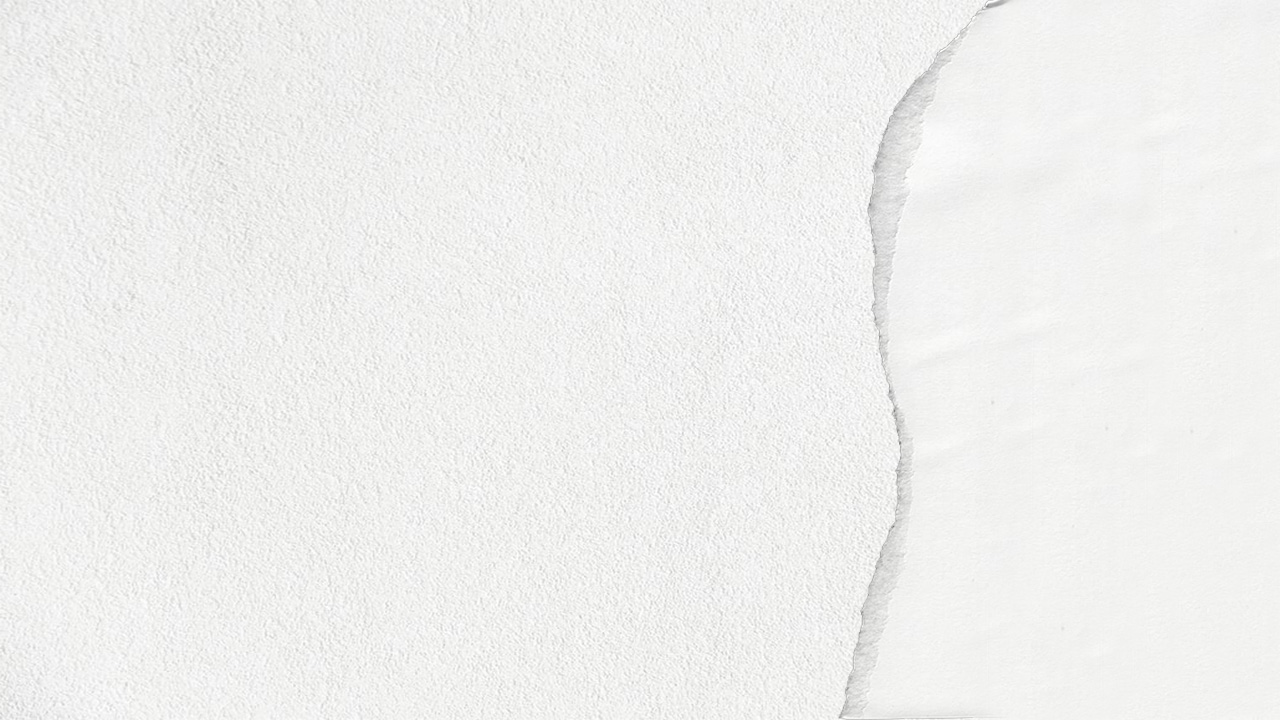
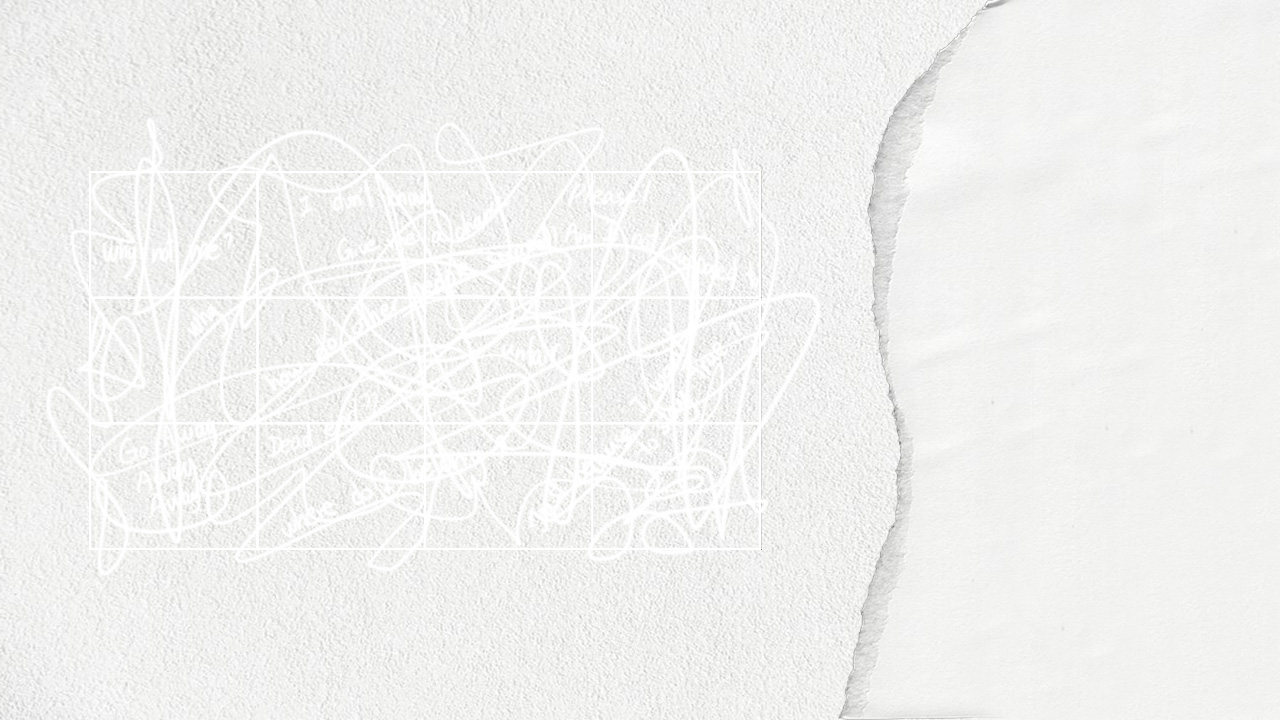
P1: instruction page added and others
Added the instruction page, changed the AnimationYuji class to Animation, which is adapted to all kinds of animation effects. Changed properties in Door class to be reacting based on mousePressed, added more functions to the state AssignID, added one more ending state, changed the title animation, changed some visuals.

diff --git a/project/Project1/js/script.js b/project/Project1/js/script.js
@@ -3,7 +3,8 @@ import "./libraries/p5.min.js" ;
 import "./libraries/p5.collide2d.min.js";
 import "./libraries/p5.sound.min.js";
 //Classes
-import AnimationYuji from "./AnimationYuji.js";
+// import AnimationYuji from "./AnimationYuji.js";
+import Animation from "./Animation.js";
 import ChoiceBtn from "./ChoiceBtn.js";
 import Door from "./Door.js";
 import q from "./questions.js"
@@ -38,6 +39,8 @@ let btn = {
   identifiedSpecies: [],
   identifiedSpeciesInput: [`Human`, `Other`],
   game: undefined,
+  assignID: [],
+  assignIDInput: [`Yes`,`No`],
 }
 
 let doors = {
@@ -52,10 +55,15 @@ let visual = {
   bg1: undefined,
   bg2: undefined,
   bg3: undefined,
+  bg4: undefined,
+  bg5: undefined,
   bgX: 0,
   bgY:0,
   animationYuji: [],
   videoYuji: undefined,
+  animationPaper: [],
+  videoPaper: undefined,
+  index: undefined,
 }
 
 //colours
@@ -79,7 +87,9 @@ p5.preload = function() {
   visual.bg1 = p5.loadImage(`assets/images/bg1.jpg`);
   visual.bg2 = p5.loadImage(`assets/images/bg2.png`);
   visual.bg3 = p5.loadImage(`assets/images/bg3.png`);
-  for (let i = 0; i < 300; i++) { //images frame for the animation
+  visual.bg4 = p5.loadImage(`assets/images/bg4.png`);
+  visual.bg5 = p5.loadImage(`assets/images/bg5.jpg`);
+  for (let i = 0; i < 300; i++) { //images frame for the animation Yuji
     let loadedImage;
     if (i< 10) {
       loadedImage = p5.loadImage(`assets/images/comp2/yujiAnim_0000${i}.png`);
@@ -91,6 +101,17 @@ p5.preload = function() {
       loadedImage = p5.loadImage(`assets/images/comp2/yujiAnim_00${i}.png`);
     }
     visual.animationYuji.push(loadedImage);
+  }
+
+  for (let i = 0; i < 60; i++) { //images frame for the Paper animation
+    let loadedImage;
+    if (i< 10) {
+      loadedImage = p5.loadImage(`assets/images/comp3/paperAnim_0000${i}.png`); 
+    }
+    else {
+      loadedImage = p5.loadImage(`assets/images/comp3/paperAnim_000${i}.png`);
+    }
+    visual.animationPaper.push(loadedImage);
   }
   
 }
@@ -126,6 +147,11 @@ p5.setup = function() {
     let btnObject= new ChoiceBtn(x, p5.height*2/5 + 280, 200, 50, colours.black, courier.regular, btn.identifiedSpeciesInput[i], p5);
     btn.identifiedSpecies.push(btnObject);
   } 
+  for (let i = 0; i<2; i++) { //assignID state buttons
+    let x = p5.width/5 -70 + i*(150 + 25);
+    let btnObject= new ChoiceBtn(x, p5.height*4/5 + 55, 150, 50, colours.black, courier.regular, btn.assignIDInput[i], p5);
+    btn.assignID.push(btnObject);
+  }
 
   // Doors at the game state
   for (let i = 0; i<4; i++) { 
@@ -150,11 +176,12 @@ p5.setup = function() {
   q.sanityLevel.y = p5.height/10;
   
     //Animation 1 for Yuji
-    visual.videoYuji = new AnimationYuji(visual.animationYuji, 0, 0, p5);
+    visual.videoYuji = new Animation(visual.animationYuji, 0, 0, 299, p5);
+    //Animation 2 for Paper
+    visual.videoPaper = new Animation(visual.animationPaper, -10, 25, 59, p5);
 
     //Annyang
     if (window.annyang) {
-      console.log(`annyang`);
       // Create commands
       let commands = {
         'My answer is *answer': setAnswer,
@@ -187,12 +214,20 @@ p5.draw = function() {
       assignID();
       break;
 
+    case `instruction`:
+      instruction();
+      break;
+
     case `game`:
       game();
       break;
 
     case `ending`:
       ending();
+      break;
+    
+    case `badEnding`:
+      badEnding();
       break;
   }
 }
@@ -207,7 +242,7 @@ function title() {
   p5.text(`PaperMan`, p5.width*5/7 +70 + 100, p5.height/3);
   p5.pop();
 
-  visual.videoYuji.display();//display the animation frame
+  visual.videoYuji.displayMouseAnim();//display the animation frame
 
   //Call functionalities of buttons
   btn.start.display();
@@ -294,7 +329,8 @@ function assignID() {
   p5.text(`Before entering the paper world, you should obtain a valid ID`, p5.width/2, p5.height/8 +50);
 
   //Identity card
-  p5.image(visual.bg3,  p5.width/5 -70, p5.height*2/5 - 75);
+  p5.image(visual.bg3, p5.width/5 -70, p5.height*2/5 - 75);
+  
   //Prompt Table
   p5.textAlign(p5.LEFT);
   p5.textFont(courier.bold);
@@ -311,7 +347,46 @@ function assignID() {
   p5.text(`Men`, p5.width/5, p5.height*2/5 + 180);
   p5.text(`Human`, p5.width*3/5, p5.height*2/5 + 180);
 
-  //
+  //Question at the buttom
+  p5.text(`Would you like to spend 10 sanity units to get the ID?`, p5.width/5 -70, p5.height*4/5 + 30);
+  if (q.sanityLevel.content === 90) {
+    p5.text(`Decision Recorded! You are good to go.`, p5.width/2 -50, p5.height*4/5 + 75);
+  } else if (btn.assignIDInput === `No`) {
+    p5.text(`At your risks.`, p5.width/2 -50, p5.height*4/5 + 75);
+  }
+  //Yes or No button
+  for (let prop in btn.assignID) {
+    btn.assignID[prop].display();
+  }
+
+  //display the animation for the paper
+  visual.videoPaper.displayMouseAnim();
+
+  btn.game.display(); //button to switch to instruction state
+
+  p5.pop();
+}
+
+
+//Instruction State
+function instruction() {
+  p5.push();
+  p5.image(visual.bg1, 0, 0); //background
+  p5.textAlign(p5.CENTER, p5.CENTER);
+
+  //Instruction texts
+  p5.textFont(courier.bold);
+  p5.textSize(48);
+  p5.text(`Instructions`, p5.width/2, p5.height/8);
+  p5.textFont(courier.regular);
+  p5.textSize(24);
+  p5.text(`Some rules about the Paper world`, p5.width/2, p5.height/8 +50);
+
+  p5.textAlign(p5.LEFT);
+  p5.text(`1. Answer the asked questions by saying "My answer is (yes/no)."`, p5.width/8, p5.height*3/8);
+  p5.text(`2. Once your sanity level is under 30, you are eliminated.`, p5.width/8, p5.height*3/8 +50);
+  p5.text(`3. When all questions are answered, choose a lightened box to enter.`, p5.width/8, p5.height*3/8 +100);
+  p5.text(`ATTENTION: Please use google Chrome, and remember to allow access to the microphone.`, 50, p5.height*6/8);
 
   btn.game.display(); //button to switch to game state
 
@@ -345,13 +420,19 @@ function game() {
   p5.text(`Q${q.current}: ${q.questions[q.current].content}`, q.x, q.y, p5.width*7/8);
   p5.textFont(courier.regular);
   p5.textSize(24);
-  p5.text(q.questions[q.current].description, q.x, q.y +100);
+  p5.text(q.questions[q.current].description, q.x, q.sanityLevel.y);
 
   //Sanity Level
   p5.textFont(courier.bold);
   p5.text(`San: ${q.sanityLevel.content}`, q.sanityLevel.x, q.sanityLevel.y);
   p5.pop();
+
+  //Bad ending condition
+  if (q.sanityLevel.content <= 30) {
+    state = `badEnding`;
+  }
 }
+
 
 //Ending State
 function ending() {
@@ -360,11 +441,22 @@ function ending() {
   p5.pop();
 }
 
+function badEnding() {
+  p5.push();
+  p5.image(visual.bg5, 0, 0);
+
+  //Animation
+  visual.bgX += 10;
+  if (visual.bgX >= 0) {
+    visual.bgX = 0;
+  }
+  p5.image(visual.bg4, visual.bgX, visual.bgY);
+  p5.pop();
+}
+
 // //Annyang functions that update the questions and sanity level depending on the answer.
-// //From here to line 520
 
 function setAnswer(answer) {
-  console.log(answer);
   let question = q.questions[q.current];
   question.response = answer;
   q.current++;
@@ -378,7 +470,6 @@ function setAnswer(answer) {
 
 //Prompt question when the user mousepress
 p5.mousePressed = function() {
-  
   //Title page start button
   if (btn.start.clicked ) {
     state = `profileSetting`;
@@ -415,19 +506,32 @@ p5.mousePressed = function() {
     btn.identifiedSpeciesInput = `Interesting!`;
   } 
 
-  //Next Button
+  //Next Button in the profileSetting state
   if (state === `profileSetting`) {
     if (btn.game.clicked) {
       state = `assignID`;
       btn.game.clicked = false;
     }
   }
-  //Next Button
-  if (state === `assignID`) {
-    if (btn.game.clicked) {
-      state = `game`;
+  //Next Button in the assignID state
+  if (state === `assignID` && btn.game.clicked) {
+    if ( btn.assignIDInput === `No` || q.sanityLevel.content === 90) {
+      state = `instruction`;
       btn.game.clicked = false;
     }
+  } 
+
+  //Yes Button in the assignID state
+  if (btn.assignID[0].clicked) {
+    q.sanityLevel.content -= 10;
+  } else if (btn.assignID[1].clicked) {
+    btn.assignIDInput = `No`;
+  }
+
+  //Next Button in the game state
+  if (state === `instruction` && btn.game.clicked) {
+      state = `game`;
+      btn.game.clicked = false;
   } 
 
   //Start the responsive voice for the first time 
@@ -442,7 +546,7 @@ p5.mousePressed = function() {
     }
   }
   
-}
+} //End of mousePressed
 
 
 p5.keyTyped = function() {
@@ -450,7 +554,6 @@ p5.keyTyped = function() {
   if (btn.name.clicked) {
     btn.nameInput += p5.key;
   }
-  
 }
 
 p5.keyPressed = function() {
@@ -461,6 +564,6 @@ p5.keyPressed = function() {
   }
 }
 
-});
+}); //End of p5 object
 
 //Not add after

diff --git a/project/Project1/js/Animation.js b/project/Project1/js/Animation.js
@@ -1,0 +1,42 @@
+let p5Copy;
+class Animation {
+  constructor(animation, x, y, frames, p5){
+    this.x = x;
+    this.y = y;
+    this.animation = animation;
+    this.frames = frames;
+    p5Copy= p5;
+  }
+
+  displayAutoAnim() { 
+    let indexAuto; 
+    indexAuto = 0;
+    console.log(indexAuto);
+    if (indexAuto <= this.frames) {
+      indexAuto += 1;
+    } else {
+      indexAuto = this.frames;
+    }
+    //displaying the corresponding image
+    p5Copy.image(this.animation[indexAuto], this.x, this.y);
+  }
+
+
+  displayMouseAnim() {
+    // Animate the frames with mouseX
+    let indexMouse;
+    if (p5Copy.mouseX < 0) { //to avoid errors
+      indexMouse =0;
+    } 
+    else if (p5Copy.mouseX >= 1190) { //same
+      indexMouse = this.frames;
+    }
+    else { //assign an index to each mouseX position
+      indexMouse = p5Copy.floor(p5Copy.map(p5Copy.mouseX, 0, 1190, 0, this.frames));
+    }
+    //displaying the corresponding image
+    p5Copy.image(this.animation[indexMouse], this.x, this.y);
+  }
+}
+
+export default Animation;

diff --git a/project/Project1/js/Door.js b/project/Project1/js/Door.js
@@ -32,10 +32,6 @@ class Door {
 
   choose() {
     this.clicked = p5Copy3.collidePointRect(p5Copy3.mouseX, p5Copy3.mouseY, this.x, this.y, this.sizeX, this.sizeY);
-    console.log(this.clicked);
-    // if (this.clicked === true && this.currentFill === 255 && p5Copy3.mousePressed) {
-    //   state = `ending`;
-    // }
   }
 
 }
